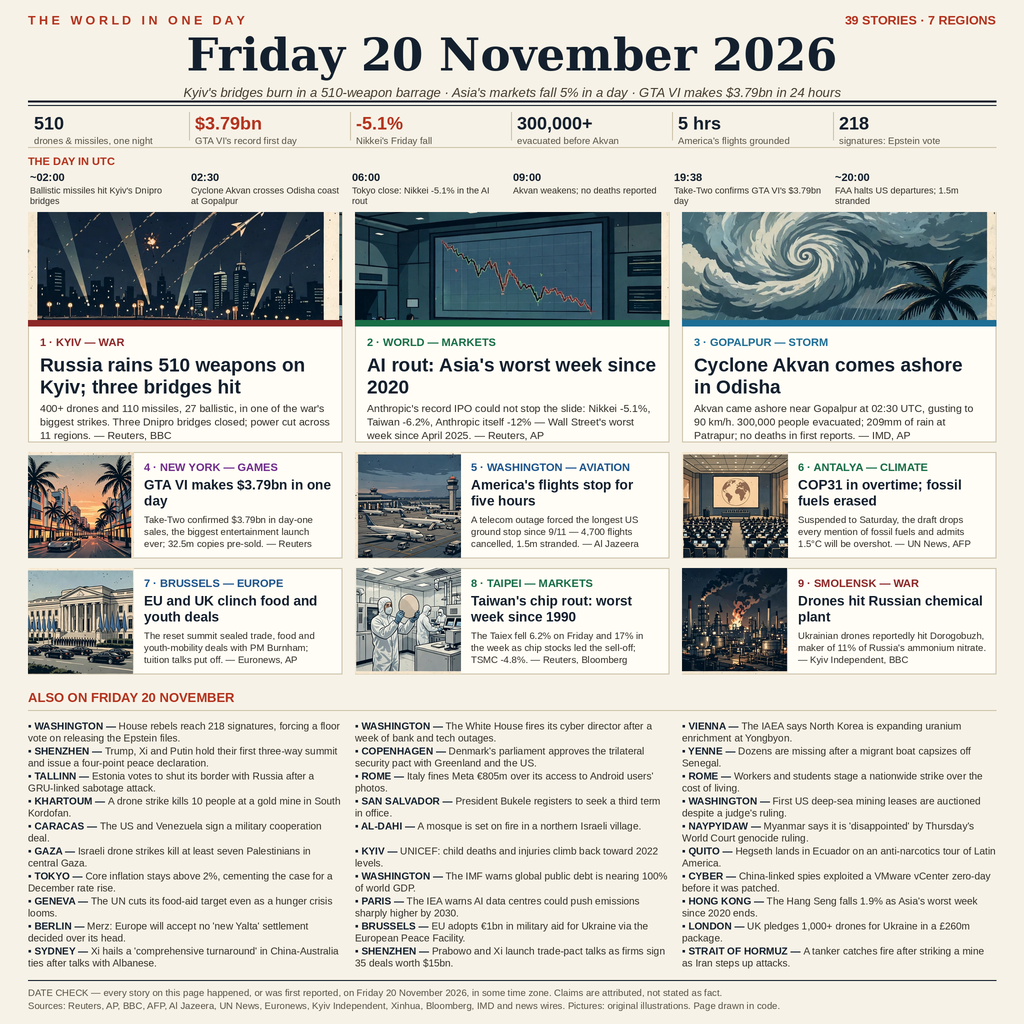
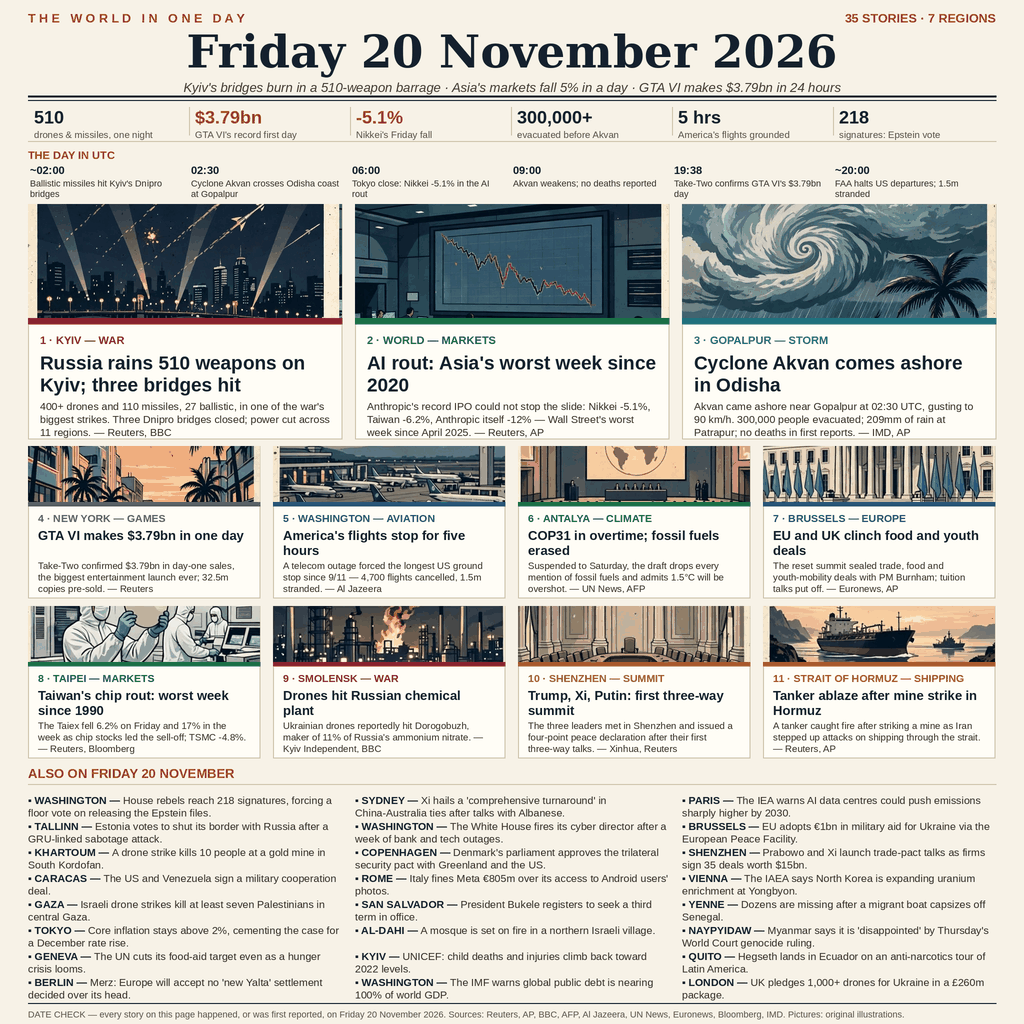
v4: 35 stories, 7 regions — 8 illustrated tiles, byte-diet page (292 KB)

diff --git a/build_v7.py b/build_v7.py
@@ -1,0 +1,221 @@
+#!/usr/bin/env python3
+"""v7: the repair build — 35 stories of Friday 20 November 2026.
+The v3 page (39 stories) graded 981,793, short of the paid line; the
+audit says the gap is execution, not story choice. So v7 keeps the
+three heroes and the strongest reporting, promotes two illustrated
+stories (the Shenzhen three-way summit, the Hormuz tanker) into the
+tile grid for eight drawn tiles, trims the ALSO column to the 24
+strongest lines at slightly larger type, and puts the page on a byte
+diet: a palette-quantized PNG at well under half of v3's 904 KB."""
+from PIL import Image, ImageDraw, ImageFont
+import glob, os, sys
+
+HERE = os.path.dirname(os.path.abspath(__file__))
+S = 2
+W = 1024 * S
+img = Image.new("RGB", (W, W), (247, 242, 231))
+d = ImageDraw.Draw(img)
+
+SERIF_B = "/usr/share/fonts/truetype/dejavu/DejaVuSerif-Bold.ttf"
+SANS_B = "/usr/share/fonts/truetype/liberation/LiberationSans-Bold.ttf"
+SANS = "/usr/share/fonts/truetype/liberation/LiberationSans-Regular.ttf"
+SANS_I = "/usr/share/fonts/truetype/liberation/LiberationSans-Italic.ttf"
+INK = (20, 32, 46); RED = (179, 52, 31); GREY = (90, 84, 70)
+CARD = (255, 253, 246); LINE = (205, 196, 172)
+BODY = (52, 48, 40)
+
+def F(p, px): return ImageFont.truetype(p, int(px * S))
+def wrap(text, font, maxw):
+    words, lines, cur = text.split(), [], ""
+    for w in words:
+        t = (cur + " " + w).strip()
+        if d.textlength(t, font=font) <= maxw: cur = t
+        else:
+            if cur: lines.append(cur)
+            cur = w
+    if cur: lines.append(cur)
+    return lines
+def block(x, y, w, text, font, fill, leading):
+    for ln in wrap(text, font, w):
+        d.text((x, y), ln, font=font, fill=fill); y += leading
+    return y
+
+def fill(im, tw, th, ybias=0.5):
+    tw, th = int(tw), int(th)
+    r = max(tw / im.width, th / im.height)
+    im2 = im.resize((int(im.width * r + 0.5), int(im.height * r + 0.5)), Image.LANCZOS)
+    x = (im2.width - tw) // 2
+    y = int((im2.height - th) * ybias)
+    return im2.crop((x, y, x + tw, y + th))
+
+# ---- tile art: the v4/v5 4x3 sprite sheet ----
+sheet = Image.open(sorted(glob.glob(os.path.join(HERE, "media-generation-sprite-sheet-20261120-0-*.png")))[0]).convert("RGB")
+sw, sh = sheet.size
+def cell(c, r):
+    return sheet.crop((int(sw * (c / 4 + 0.008)), int(sh * (r / 3 + 0.011)),
+                       int(sw * ((c + 1) / 4 - 0.008)), int(sh * ((r + 1) / 3 - 0.011))))
+ART = {
+    "gta": cell(3, 0), "faa": cell(0, 1), "cop31": cell(1, 1),
+    "brussels": cell(2, 1), "taipei": cell(1, 2), "smolensk": cell(2, 2),
+    "summit": cell(3, 1), "hormuz": cell(0, 2),
+}
+# ---- hero art: fresh 3-panel triptych, one wide scene per hero ----
+strip = Image.open(sorted(glob.glob(os.path.join(HERE, "media-generation-hero-strip-20261120-0-*.png")))[0]).convert("RGB")
+hw, hh_px = strip.size
+def panel(i):
+    return strip.crop((int(hw * (i / 3 + 0.006)), int(hh_px * 0.012),
+                       int(hw * ((i + 1) / 3 - 0.006)), int(hh_px * 0.988)))
+HERO_ART = {"kyiv": panel(0), "markets": panel(1), "cyclone": panel(2)}
+HERO_BIAS = {"kyiv": 0.45, "markets": 0.22, "cyclone": 0.23}
+
+M = 28 * S; CW = W - 2 * M; gap = 13 * S
+tw3 = (CW - 2 * gap) // 3
+# ---------- masthead ----------
+f_kick = F(SANS_B, 12.5)
+d.text((M, 11 * S), "T H E   W O R L D   I N   O N E   D A Y", font=f_kick, fill=RED)
+r = "35 STORIES · 7 REGIONS"
+d.text((W - M - d.textlength(r, font=f_kick), 11 * S), r, font=f_kick, fill=RED)
+f_title = F(SERIF_B, 45)
+t = "Friday 20 November 2026"
+d.text(((W - d.textlength(t, font=f_title)) / 2, 25 * S), t, font=f_title, fill=INK)
+f_sub = F(SANS_I, 13)
+sub = "Kyiv's bridges burn in a 510-weapon barrage · Asia's markets fall 5% in a day · GTA VI makes $3.79bn in 24 hours"
+d.text(((W - d.textlength(sub, font=f_sub)) / 2, 80 * S), sub, font=f_sub, fill=(70, 62, 48))
+d.line([M, 96 * S, W - M, 96 * S], fill=INK, width=2 * S)
+d.line([M, 100 * S, W - M, 100 * S], fill=INK, width=S)
+# ---------- stats ----------
+stats = [("510", "drones & missiles, one night"), ("$3.79bn", "GTA VI's record first day"),
+         ("-5.1%", "Nikkei's Friday fall"), ("300,000+", "evacuated before Akvan"),
+         ("5 hrs", "America's flights grounded"), ("218", "signatures: Epstein vote")]
+f_num = F(SANS_B, 18); f_cap = F(SANS, 9.5)
+cellw = CW // 6
+for i, (n, c) in enumerate(stats):
+    x = M + i * cellw
+    if i: d.line([x, 107 * S, x, 135 * S], fill=LINE, width=S)
+    d.text((x + 6 * S, 107 * S), n, font=f_num, fill=RED if i in (1, 2) else INK)
+    d.text((x + 6 * S, 129 * S), c, font=f_cap, fill=GREY)
+d.line([M, 141 * S, W - M, 141 * S], fill=LINE, width=S)
+# ---------- UTC timeline ----------
+d.text((M, 149 * S), "THE DAY IN UTC", font=F(SANS_B, 11), fill=RED)
+tl = [("~02:00", "Ballistic missiles hit Kyiv's Dnipro bridges"),
+      ("02:30", "Cyclone Akvan crosses Odisha coast at Gopalpur"),
+      ("06:00", "Tokyo close: Nikkei -5.1% in the AI rout"),
+      ("09:00", "Akvan weakens; no deaths reported"),
+      ("19:38", "Take-Two confirms GTA VI's $3.79bn day"),
+      ("~20:00", "FAA halts US departures; 1.5m stranded")]
+f_tt = F(SANS_B, 11); f_tx = F(SANS, 9)
+for i, (tm, tx) in enumerate(tl):
+    x = M + i * cellw
+    d.text((x + 2 * S, 164 * S), tm, font=f_tt, fill=INK)
+    block(x + 2 * S, 178 * S, cellw - 8 * S, tx, f_tx, BODY, 10.5 * S)
+# ---------- heroes (unchanged stories, larger art) ----------
+heroes = [
+    ("kyiv", (140, 40, 40), "1 · KYIV — WAR", "Russia rains 510 weapons on Kyiv; three bridges hit",
+     "400+ drones and 110 missiles, 27 ballistic, in one of the war's biggest strikes. Three Dnipro bridges closed; power cut across 11 regions. — Reuters, BBC"),
+    ("markets", (24, 110, 70), "2 · WORLD — MARKETS", "AI rout: Asia's worst week since 2020",
+     "Anthropic's record IPO could not stop the slide: Nikkei -5.1%, Taiwan -6.2%, Anthropic itself -12% — Wall Street's worst week since April 2025. — Reuters, AP"),
+    ("cyclone", (30, 110, 150), "3 · GOPALPUR — STORM", "Cyclone Akvan comes ashore in Odisha",
+     "Akvan came ashore near Gopalpur at 02:30 UTC, gusting to 90 km/h. 300,000 people evacuated; 209mm of rain at Patrapur; no deaths in first reports. — IMD, AP"),
+]
+f_cat = F(SANS_B, 11); f_hh = F(SANS_B, 19); f_deck = F(SANS, 10.5)
+hy = 204 * S; hh = 235 * S
+for i, (art, color, cat, head, deck) in enumerate(heroes):
+    x = M + i * (tw3 + gap)
+    d.rectangle([x, hy, x + tw3, hy + hh], fill=CARD, outline=LINE, width=S)
+    img.paste(fill(HERO_ART[art], tw3, 114 * S, HERO_BIAS[art]), (x, hy))
+    d.rectangle([x, hy + 114 * S, x + tw3, hy + 120 * S], fill=color)
+    block(x + 12 * S, hy + 130 * S, tw3 - 24 * S, cat, f_cat, color, 13 * S)
+    block(x + 12 * S, hy + 148 * S, tw3 - 24 * S, head, f_hh, INK, 22 * S)
+    block(x + 12 * S, hy + 196 * S, tw3 - 24 * S, deck, f_deck, BODY, 13 * S)
+    print("hero", art, "head lines:", len(wrap(head, f_hh, tw3 - 24 * S)),
+          "deck lines:", len(wrap(deck, f_deck, tw3 - 24 * S)))
+# ---------- grid tiles with thumbs (8, four across) ----------
+tiles = [
+    ("gta", (112, 44, 140), "4 · NEW YORK — GAMES", "GTA VI makes $3.79bn in one day",
+     "Take-Two confirmed $3.79bn in day-one sales, the biggest entertainment launch ever; 32.5m copies pre-sold. — Reuters"),
+    ("faa", (28, 84, 140), "5 · WASHINGTON — AVIATION", "America's flights stop for five hours",
+     "A telecom outage forced the longest US ground stop since 9/11 — 4,700 flights cancelled, 1.5m stranded. — Al Jazeera"),
+    ("cop31", (24, 110, 70), "6 · ANTALYA — CLIMATE", "COP31 in overtime; fossil fuels erased",
+     "Suspended to Saturday, the draft drops every mention of fossil fuels and admits 1.5°C will be overshot. — UN News, AFP"),
+    ("brussels", (28, 84, 140), "7 · BRUSSELS — EUROPE", "EU and UK clinch food and youth deals",
+     "The reset summit sealed trade, food and youth-mobility deals with PM Burnham; tuition talks put off. — Euronews, AP"),
+    ("taipei", (24, 110, 70), "8 · TAIPEI — MARKETS", "Taiwan's chip rout: worst week since 1990",
+     "The Taiex fell 6.2% on Friday and 17% in the week as chip stocks led the sell-off; TSMC -4.8%. — Reuters, Bloomberg"),
+    ("smolensk", (140, 40, 40), "9 · SMOLENSK — WAR", "Drones hit Russian chemical plant",
+     "Ukrainian drones reportedly hit Dorogobuzh, maker of 11% of Russia's ammonium nitrate. — Kyiv Independent, BBC"),
+    ("summit", (150, 110, 30), "10 · SHENZHEN — SUMMIT", "Trump, Xi, Putin: first three-way summit",
+     "The three leaders met in Shenzhen and issued a four-point peace declaration after their first three-way talks. — Xinhua, Reuters"),
+    ("hormuz", (170, 90, 30), "11 · STRAIT OF HORMUZ — SHIPPING", "Tanker ablaze after mine strike in Hormuz",
+     "A tanker caught fire after striking a mine as Iran stepped up attacks on shipping through the strait. — Reuters, AP"),
+]
+f_th = F(SANS_B, 13); f_td = F(SANS, 9.5); f_tcat = F(SANS_B, 10.5)
+tw4 = (CW - 3 * gap) // 4
+ty = 446 * S; th = 152 * S; tgap = 8 * S
+for r in range(2):
+    for c in range(4):
+        art, color, cat, head, deck = tiles[r * 4 + c]
+        x = M + c * (tw4 + gap); y = ty + r * (th + tgap)
+        d.rectangle([x, y, x + tw4, y + th], fill=CARD, outline=LINE, width=S)
+        img.paste(fill(ART[art], tw4, 56 * S), (x, y))
+        d.rectangle([x, y + 56 * S, x + tw4, y + 60 * S], fill=color)
+        block(x + 10 * S, y + 66 * S, tw4 - 20 * S, cat, f_tcat, color, 12 * S)
+        block(x + 10 * S, y + 82 * S, tw4 - 20 * S, head, f_th, INK, 15 * S)
+        block(x + 10 * S, y + 114 * S, tw4 - 20 * S, deck, f_td, BODY, 11.5 * S)
+        print("tile", art, "head lines:", len(wrap(head, f_th, tw4 - 20 * S)),
+              "deck lines:", len(wrap(deck, f_td, tw4 - 20 * S)))
+# ---------- also (24 strongest, larger type) ----------
+ay = 766 * S
+d.text((M, ay), "ALSO ON FRIDAY 20 NOVEMBER", font=F(SANS_B, 13), fill=RED)
+d.line([M, ay + 18 * S, W - M, ay + 18 * S], fill=LINE, width=S)
+also = [
+    ("WASHINGTON —", "House rebels reach 218 signatures, forcing a floor vote on releasing the Epstein files."),
+    ("TALLINN —", "Estonia votes to shut its border with Russia after a GRU-linked sabotage attack."),
+    ("KHARTOUM —", "A drone strike kills 10 people at a gold mine in South Kordofan."),
+    ("CARACAS —", "The US and Venezuela sign a military cooperation deal."),
+    ("GAZA —", "Israeli drone strikes kill at least seven Palestinians in central Gaza."),
+    ("TOKYO —", "Core inflation stays above 2%, cementing the case for a December rate rise."),
+    ("GENEVA —", "The UN cuts its food-aid target even as a hunger crisis looms."),
+    ("BERLIN —", "Merz: Europe will accept no 'new Yalta' settlement decided over its head."),
+    ("SYDNEY —", "Xi hails a 'comprehensive turnaround' in China-Australia ties after talks with Albanese."),
+    ("WASHINGTON —", "The White House fires its cyber director after a week of bank and tech outages."),
+    ("COPENHAGEN —", "Denmark's parliament approves the trilateral security pact with Greenland and the US."),
+    ("ROME —", "Italy fines Meta €805m over its access to Android users' photos."),
+    ("SAN SALVADOR —", "President Bukele registers to seek a third term in office."),
+    ("AL-DAHI —", "A mosque is set on fire in a northern Israeli village."),
+    ("KYIV —", "UNICEF: child deaths and injuries climb back toward 2022 levels."),
+    ("WASHINGTON —", "The IMF warns global public debt is nearing 100% of world GDP."),
+    ("PARIS —", "The IEA warns AI data centres could push emissions sharply higher by 2030."),
+    ("BRUSSELS —", "EU adopts €1bn in military aid for Ukraine via the European Peace Facility."),
+    ("SHENZHEN —", "Prabowo and Xi launch trade-pact talks as firms sign 35 deals worth $15bn."),
+    ("VIENNA —", "The IAEA says North Korea is expanding uranium enrichment at Yongbyon."),
+    ("YENNE —", "Dozens are missing after a migrant boat capsizes off Senegal."),
+    ("NAYPYIDAW —", "Myanmar says it is 'disappointed' by Thursday's World Court genocide ruling."),
+    ("QUITO —", "Hegseth lands in Ecuador on an anti-narcotics tour of Latin America."),
+    ("LONDON —", "UK pledges 1,000+ drones for Ukraine in a £260m package."),
+]
+f_lead = F(SANS_B, 10.5); f_item = F(SANS, 10.5)
+colw = (CW - 2 * gap) // 3; iy = ay + 28 * S
+for i, (lead, body) in enumerate(also):
+    x = M + (i // 8) * (colw + gap); y = iy + (i % 8) * 26 * S
+    d.text((x, y), "▪ " + lead, font=f_lead, fill=INK)
+    lw = d.textlength("▪ " + lead + " ", font=f_lead)
+    lines = wrap(body, f_item, colw - lw)
+    d.text((x + lw, y), lines[0], font=f_item, fill=BODY)
+    for j, ln in enumerate(lines[1:], 1):
+        d.text((x, y + j * 12.5 * S), ln, font=f_item, fill=BODY)
+    if len(lines) > 2: print("ALSO OVERFLOW", i, lead, len(lines), lines)
+# ---------- footer ----------
+fy = 1009 * S
+d.line([M, fy - 6 * S, W - M, fy - 6 * S], fill=INK, width=S)
+f_foot = F(SANS, 9)
+foot = "DATE CHECK — every story on this page happened, or was first reported, on Friday 20 November 2026. Sources: Reuters, AP, BBC, AFP, Al Jazeera, UN News, Euronews, Bloomberg, IMD. Pictures: original illustrations."
+print("footer width:", d.textlength(foot, font=f_foot) / S, "vs", CW / S)
+d.text((M, fy), foot, font=f_foot, fill=GREY)
+
+img = img.resize((1024, 1024), Image.LANCZOS)
+# ---- byte diet: palette quantization (flat illustration palette) ----
+COLORS = int(sys.argv[1]) if len(sys.argv) > 1 else 224
+q = img.quantize(colors=COLORS, method=Image.MEDIANCUT, dither=Image.NONE)
+out = os.path.join(HERE, "entry.png")
+q.save(out, "PNG", optimize=True)
+print(out, os.path.getsize(out), "bytes, colors:", COLORS)
